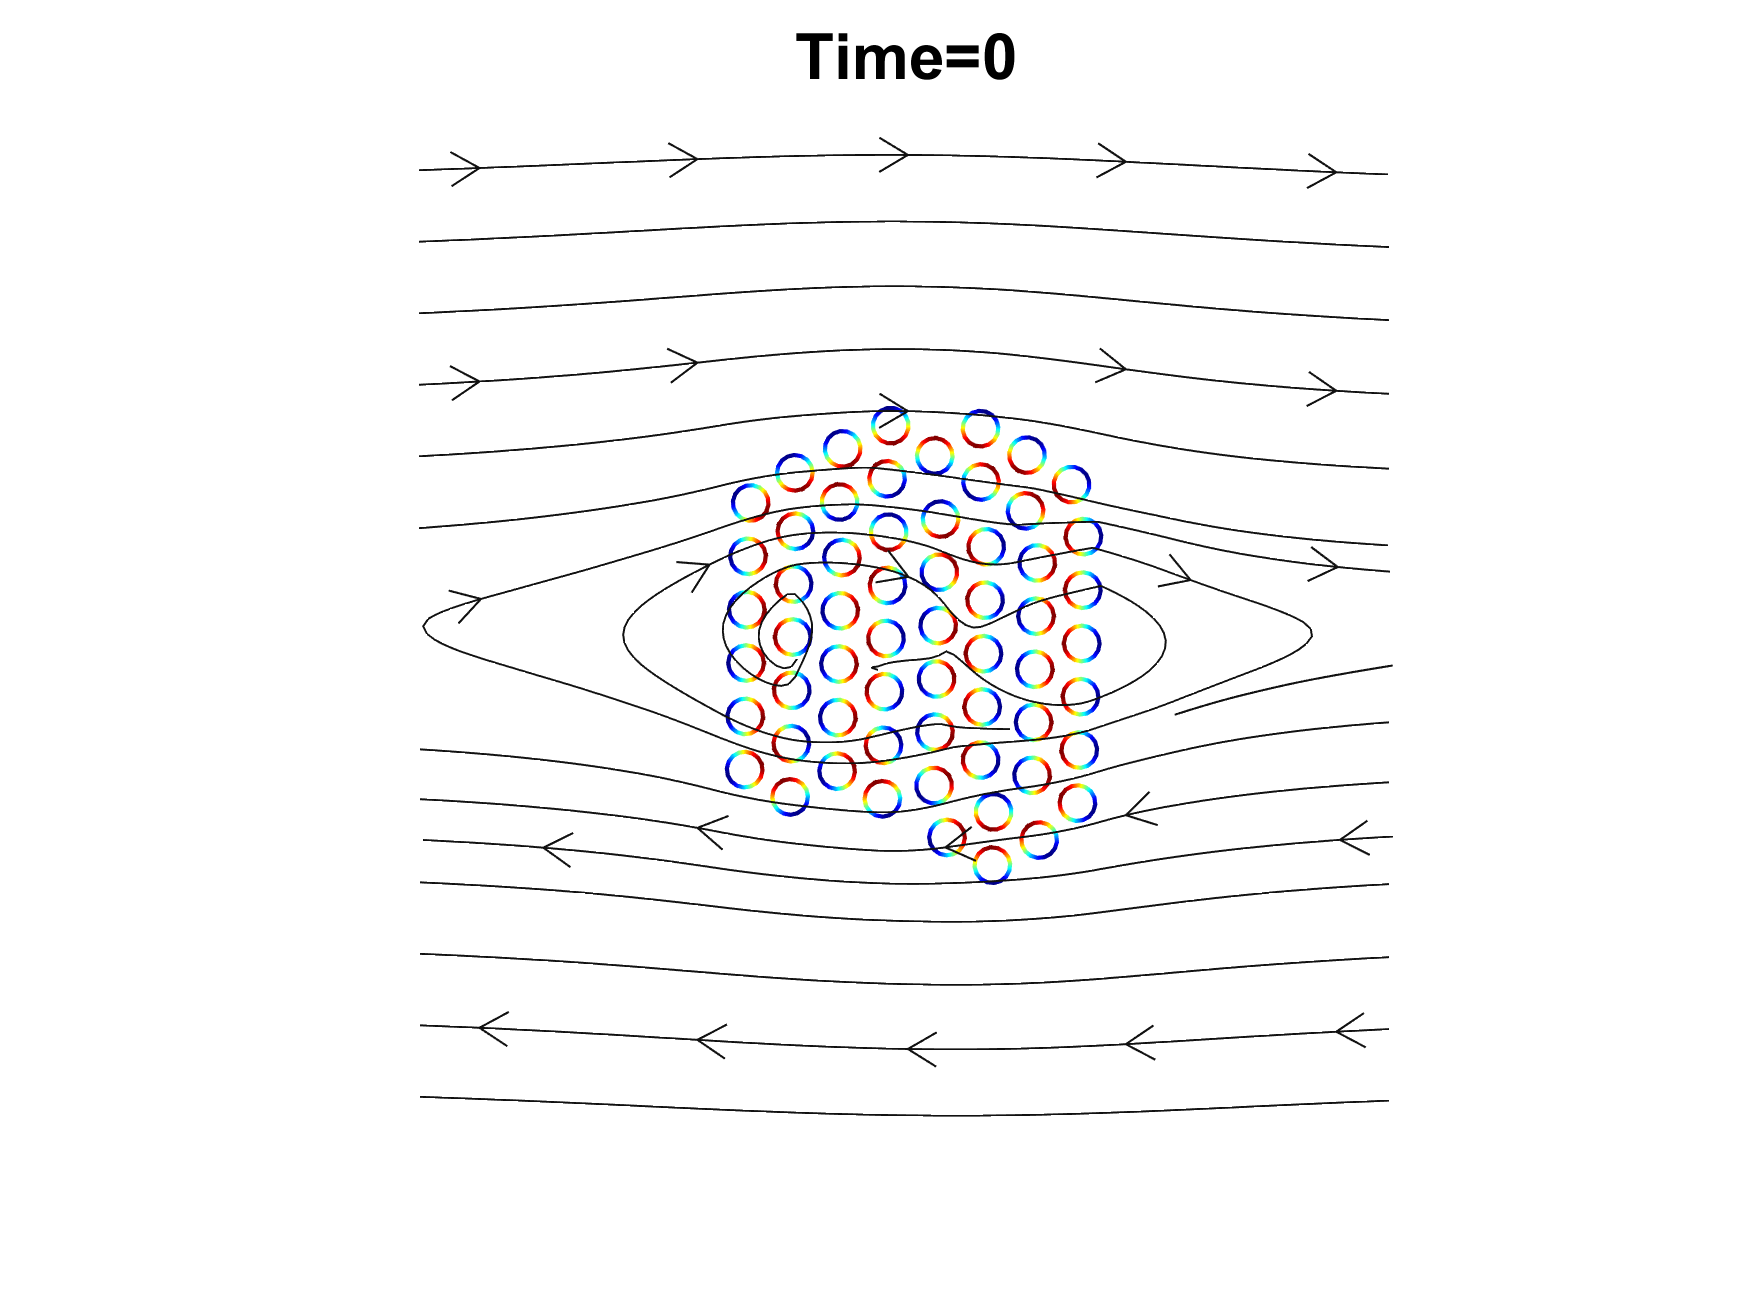
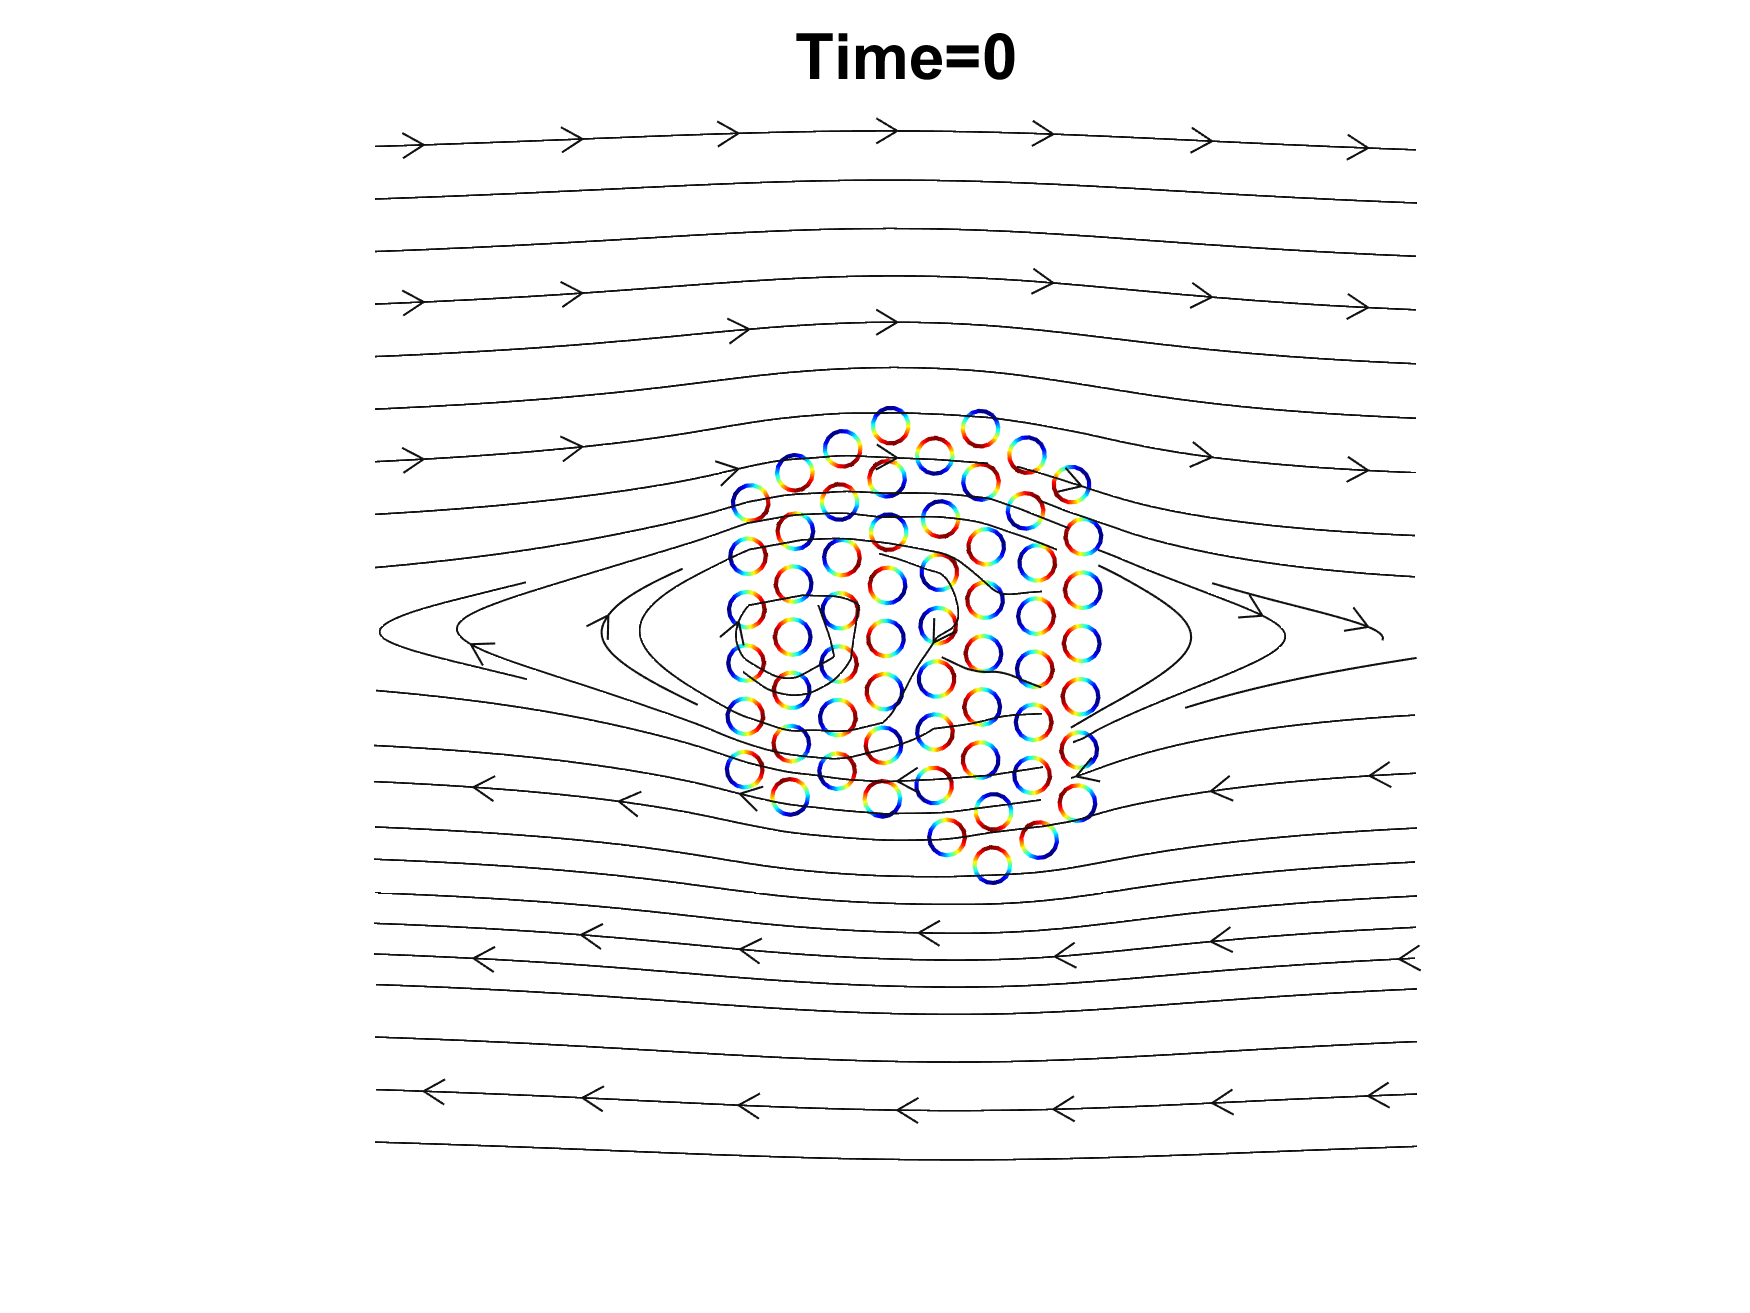
updates

diff --git a/doc/PRF2022/PRF_main.tex b/doc/PRF2022/PRF_main.tex
@@ -495,33 +495,34 @@ Consider placing the equilibrium state of boundary condition \eqref{eq:bcs} (ii)
 %
 where $\dot\gamma$ is the shear rate. Figure~\ref{fig:shear_1} (a)--(c) show the snapshots of simulation results when $\dot\gamma=0.05$.
 We measure the ratio of major and minor axes $\lambda$ by adopting an ellipse fitting using the singular value decomposition and track this aspect ratio for this multi-lamellar structure when the flow is on. 
-The result is shown in panel (d) and we observe that the multi-lamellar structure will be stretched 
-to a pancake shape while the ratio reaches above $\lambda=3.5$ level.
+The result is shown in panel (d) and we observe that the multi-lamellar structure will be slightly stretched and the aspect ratio $\lambda=3.5$ increases over time.
 %
-Notice that for this simulation, the center of mass position of the initial configuration is not at the origin and it is slightly to the right of the origin. Therefore, the result has shown that the structure stretching occurs earlier than the case when we shift the center of mass position to the origin. 
+Notice that for this simulation, the center of mass position of the initial configuration is not at the origin and it is slightly to the right of the origin. We also track the aspect ratio $\lambda$ for the case that the center of mass position is shifted to the origin. Panel (d) also shows that the dynamics 
+of two sets of simulations are invariant of center of mass position in a shear flow.
+
 %
 \begin{figure}
   \begin{center}
   \includegraphics[width=0.4\textwidth]{shear_0.png}
   \includegraphics[width=0.4\textwidth]{shear_1000.png}\\
   \includegraphics[width=0.4\textwidth]{shear_2000.png}
-    \includegraphics[width=0.4\textwidth]{shear_dist_all.jpg}
+    \includegraphics[width=0.4\textwidth]{lambda_fig1.jpg}
   \end{center}
   \vspace{-20pt}  
   \caption{\label{fig:shear_1} Snapshots of simulation using boundary condition \eqref{eq:bcs}(ii) in a shear flow when $\dot\gamma=0.05$. }
 \end{figure}
 %
 
-Consider the energy profiles for two simulations where the centor of mass is on and off the origin.
-Figure~\ref{fig:shear_energy1} shows numerical results for both energy profiles and magnitude of energy differences is significantly large when there is a large deformation, for instance, the case when a multi-lamellar structure deformed to a pancake shape.
-
-\begin{figure}
-  \begin{center}
-  \includegraphics[width=0.5\textwidth]{shear_energy1.jpg}
-  \end{center}
-  \vspace{-20pt}  
-  \caption{\label{fig:shear_energy1} Energy profiles tracked during the simulations using boundary condition \eqref{eq:bcs}(ii) in a shear flow when $\dot\gamma=0.05$. }
-\end{figure}
+%Consider the energy profiles for two simulations where the centor of mass is on and off the origin.
+%Figure~\ref{fig:shear_energy1} shows numerical results for both energy profiles and magnitude of energy differences is significantly large when there is a large deformation, for instance, the case when a multi-lamellar structure deformed to a pancake shape.
+%
+%\begin{figure}
+%  \begin{center}
+%  \includegraphics[width=0.5\textwidth]{shear_energy1.jpg}
+%  \end{center}
+%  \vspace{-20pt}  
+%  \caption{\label{fig:shear_energy1} Energy profiles tracked during the simulations using boundary condition \eqref{eq:bcs}(ii) in a shear flow when $\dot\gamma=0.05$. }
+%\end{figure}
 
 
 
